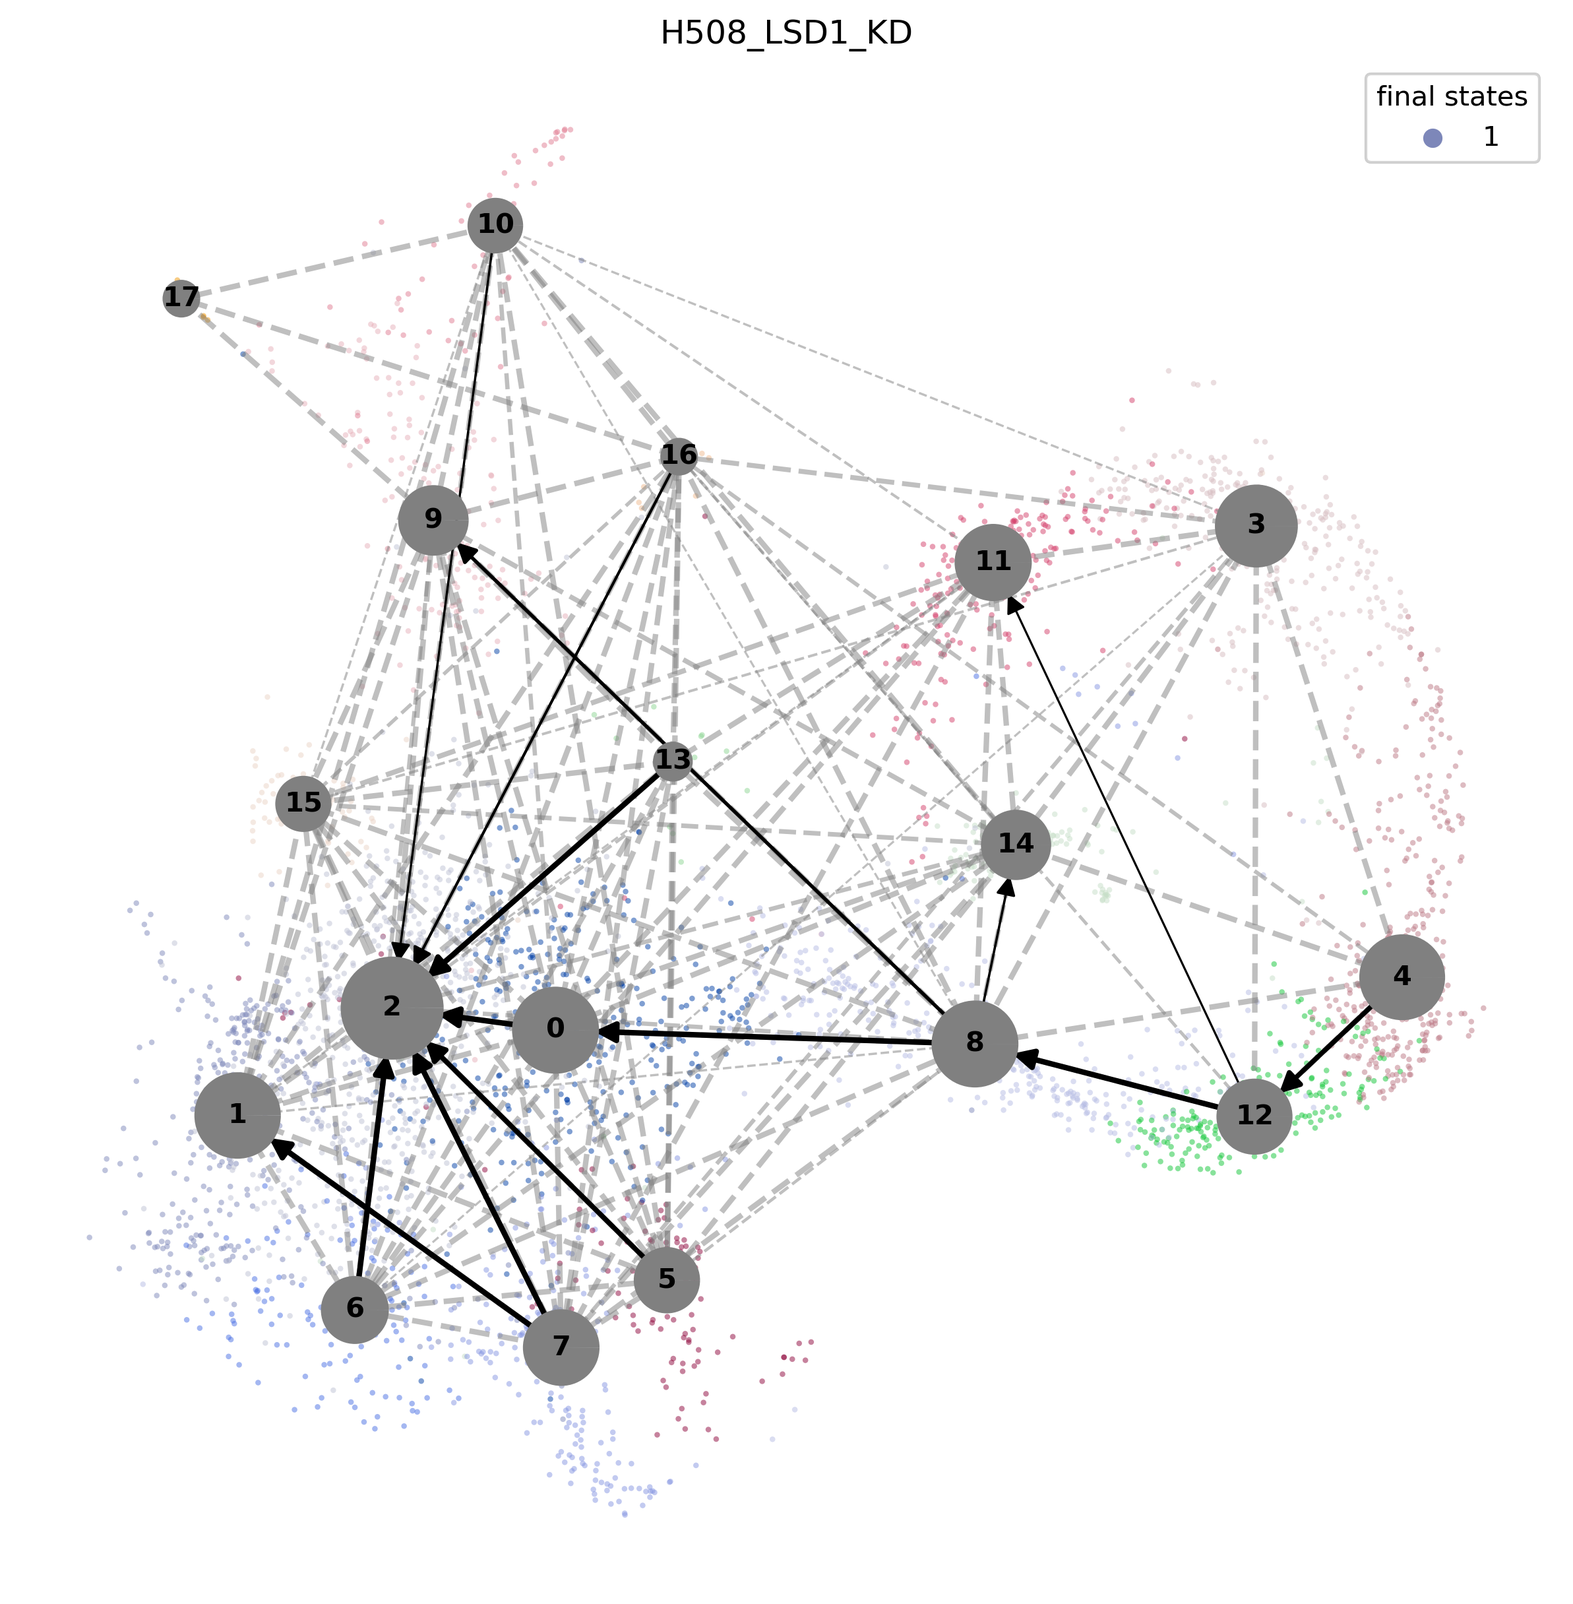
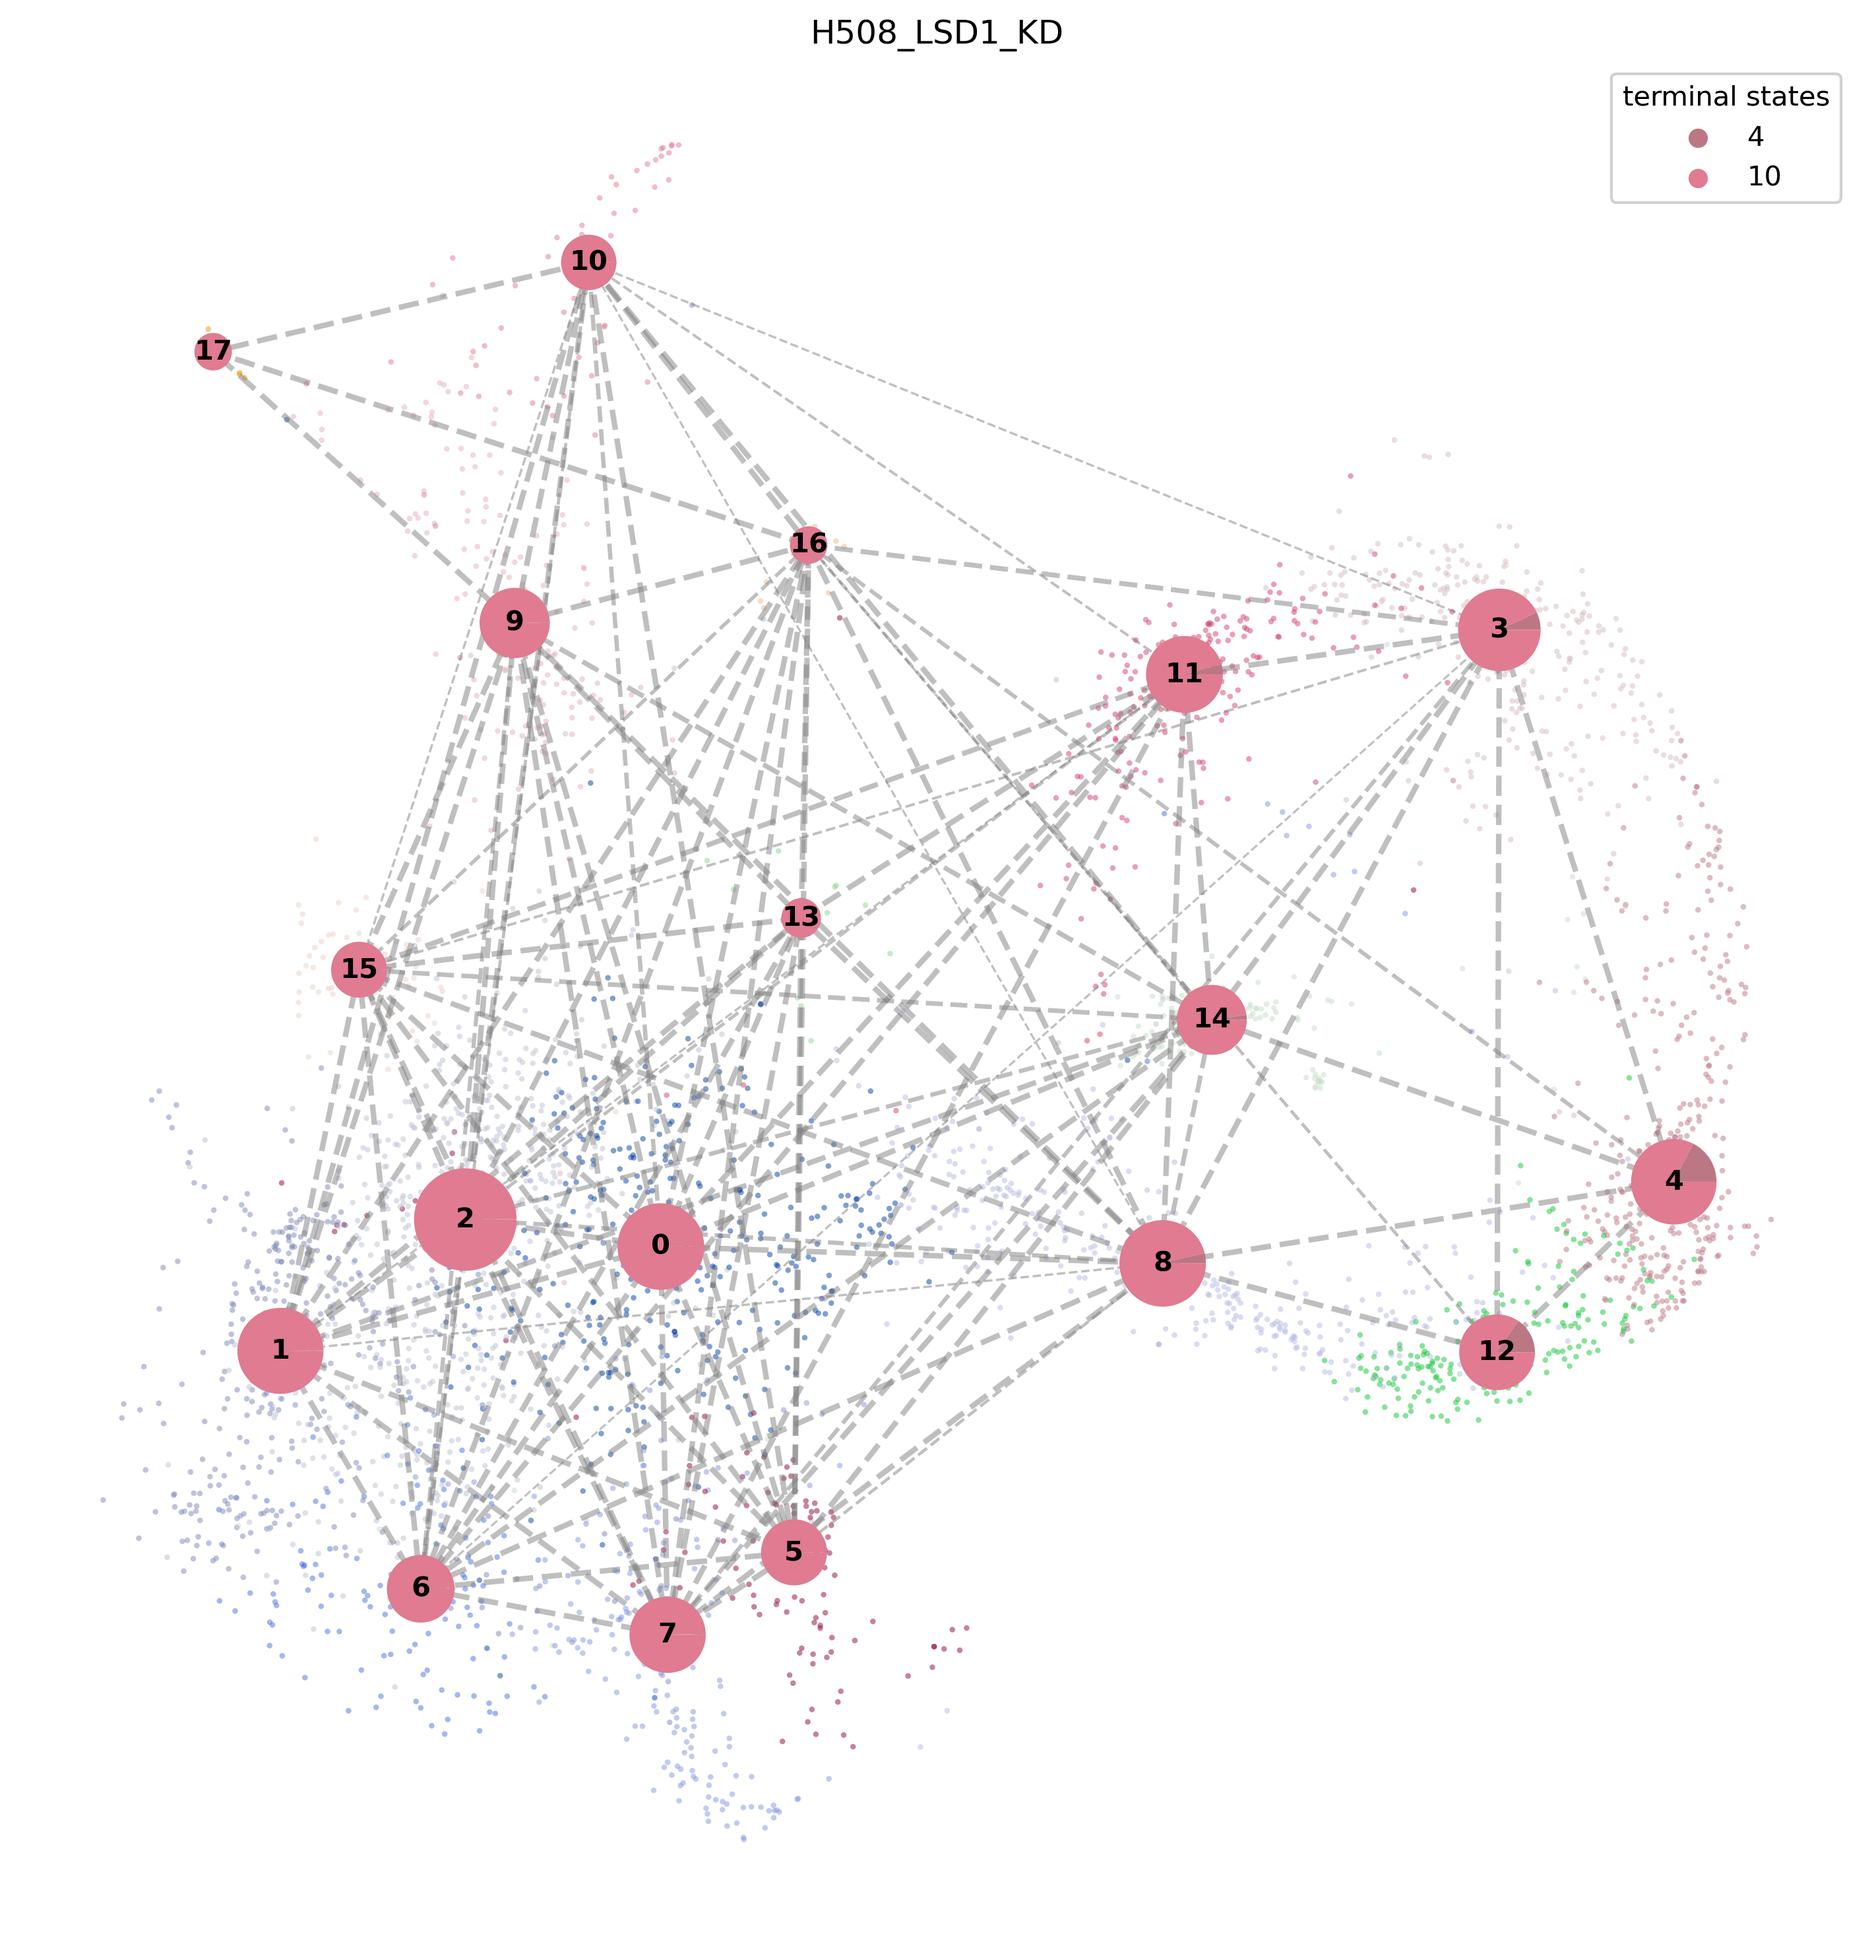
Consolidated cellrank

diff --git a/scripts/velocities.py b/scripts/velocities.py
@@ -258,47 +258,7 @@ for key,value in clusts.items():
 ## Cell Rank ##
 ###############
 
-## Recompute the velocities.
-
-for value in samples.values():
-    scv.tl.velocity_graph(value, mode_neighbors = 'connectivities', compute_uncertainties = True)
-
-## Identify final states.
-
-for value in samples.values():
-    cr.tl.terminal_states(
-      value, cluster_key = clusters, weight_connectivities = 0.2,
-      use_velocity_uncertainty = True
-    )
-
-## Identify root states.
-
-for value in samples.values():
-    cr.tl.initial_states(value, cluster_key = clusters)
-
-## Compute the fate maps.
-
-for value in samples.values():
-    cr.tl.lineages(value, cluster_key = clusters)
-
-# Compute lineage drivers
-for value in samples.values():
-    cr.tl.lineage_drivers(value, cluster_key = clusters)
-
-## Make plots
-for key in samples:
-    scv.pl.scatter(samples[key], color='terminal_states', legend_loc='right margin', show = False, dpi = 300, figsize = (10, 10), save = '{}_final_states.png'.format(key))
-    scv.pl.scatter(samples[key], color='initial_states', legend_loc='right margin', show = False, dpi = 300, figsize = (10, 10), save = '{}_root_states.png'.format(key))
-    cr.pl.lineages(samples[key], dpi = 300, figsize = (10, 10), save = '{}_lineages.png'.format(key))
-    scv.pl.scatter(samples[key], color='terminal_states', color_gradients='to_terminal_states', legend_loc='right margin', dpi = 300, figsize = (10, 10), save = '{}_lineage_final_states.png'.format(key))
-    cr.pl.cluster_fates(samples[key], cluster_key=clusters, mode='paga_pie', node_size_scale=4,
-                       title=key, edge_width_scale=1, max_edge_width=2, threshold=0.1, basis='umap',
-                       show = False, dpi = 300, figsize = (10, 10), save = '{}_paga.png'.format(key))
-#    Needs to be run after Dynamical Model
-#    scv.tl.recover_latent_time(samples[key], root_key='root_states_probs', end_key='final_states_probs')
-#    scv.pl.scatter(samples[key], color=[clusters, 'latent_time'], fontsize=16, cmap=cm.viridis, perc=[2, 98], colorbar=True, rescale_color=[0, 1],
-#              title=['clusters', 'latent time'], show = False, dpi = 300, figsize = (10, 10), save = '{}_smooth.png'.format(key))
-
+# Moved to cellrank.py
 
 ####################
 ## Joint Analysis ##

diff --git a/scripts/cellrank.py b/scripts/cellrank.py
@@ -88,5 +88,12 @@ for key in samples:
 
     g.plot_metastable_states(discrete=True, show = False, dpi = 300, save = '{}_discrete_metastable.png'.format(key))
 
+# Directed PAGA
+
+for key in samples:
+    scv.tl.paga(samples[key], groups=clusters, root_key='initial_states_probs', end_key='terminal_states_probs', use_time_prior='velocity_pseudotime')
+    cr.pl.cluster_fates(samples[key], cluster_key=clusters, mode='paga_pie', node_size_scale=4,
+                       title=key, edge_width_scale=1, max_edge_width=2, threshold=0.1, basis='umap',
+                       show = False, dpi = 300, figsize = (10, 10), save = '{}_paga.png'.format(key))
 
 
